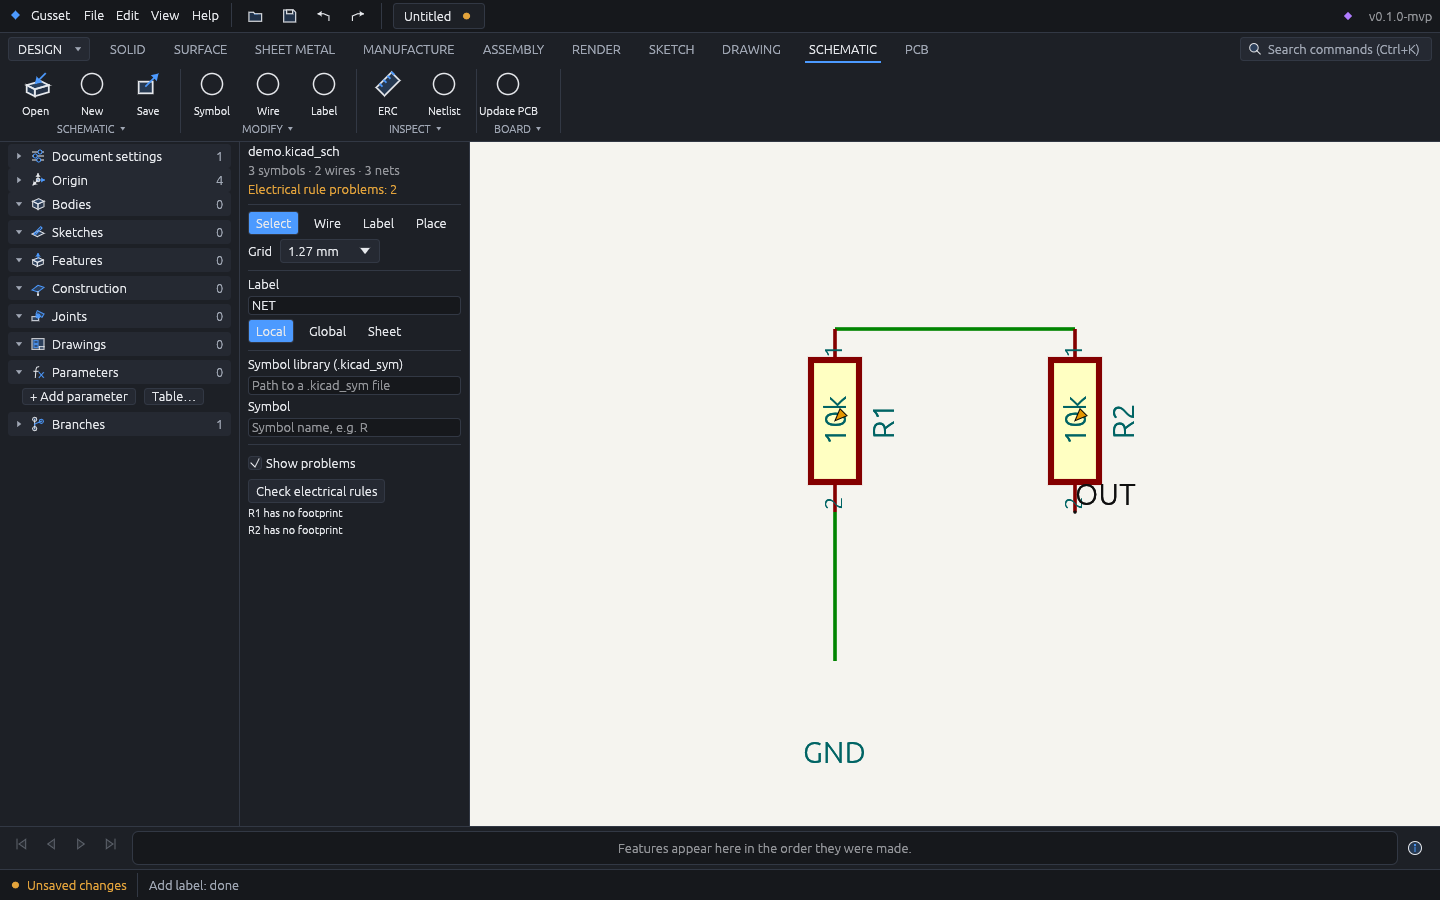
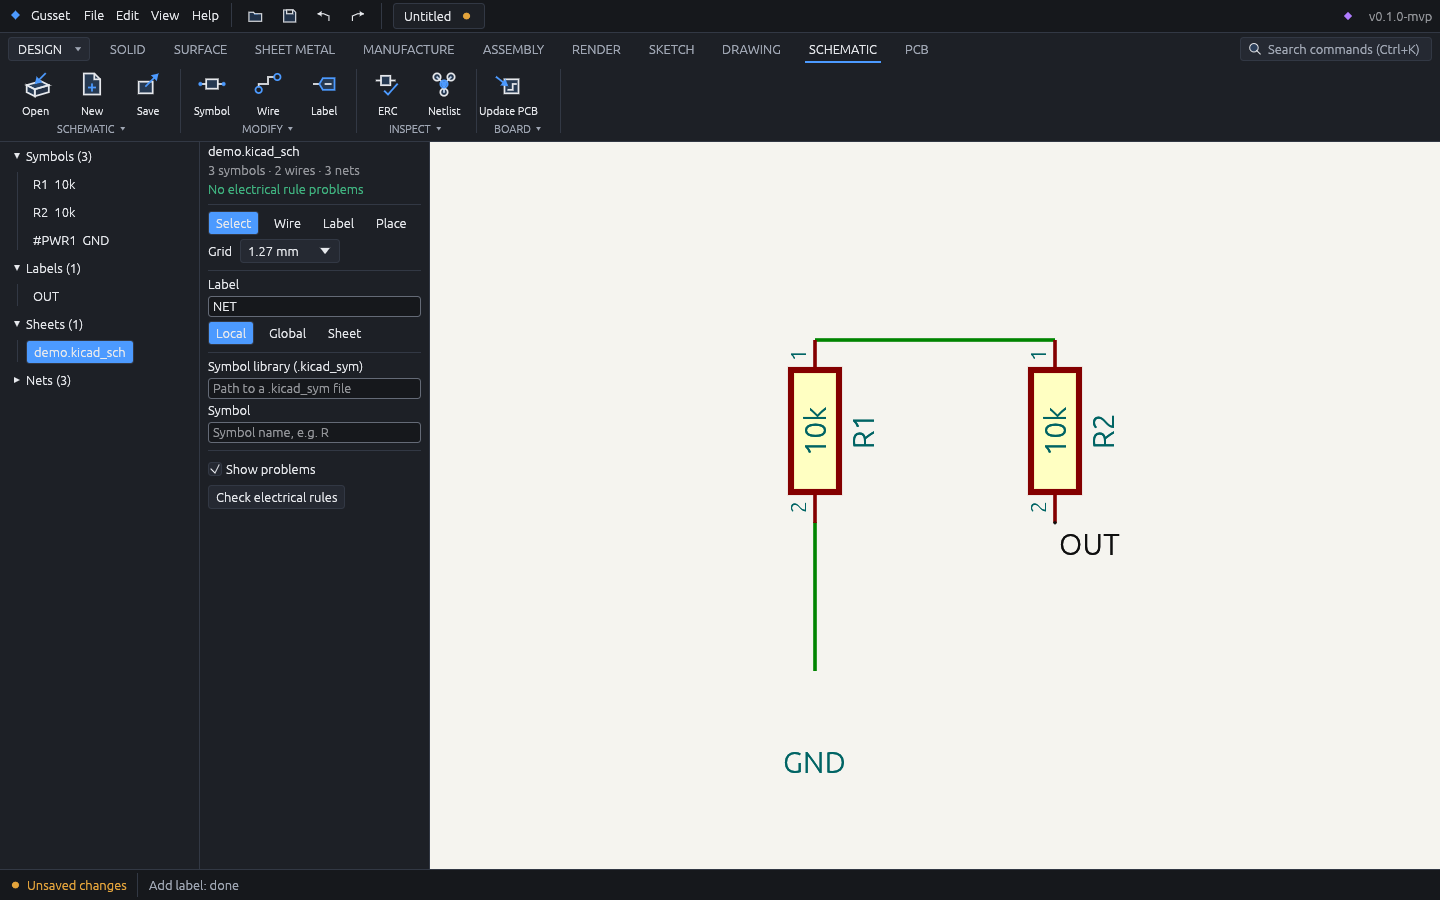
docs(app): finished PCB and Schematic gallery demo
The demo schematic's resistors get footprints (no ERC warning) and the demo
board's track is laid with pcb.route in 45-degree legs from pad to pad.
Screens 24-27 regenerated.

Claude-Session: https://claude.ai/code/session_01DSjXuzSVUbVM2N9dfBB73Z

diff --git a/crates/gusset-app/src/screenshots.rs b/crates/gusset-app/src/screenshots.rs
@@ -333,8 +333,12 @@ fn generate_gallery_pcb_sch() {
         for at in [[12, 10], [28, 20]] {
             a.run("pcb.add_footprint", json!({"library": "fp", "footprint": "Pads:R_0603", "at": at})).ok();
         }
-        a.run("pcb.add_track", json!({"start": [12.8, 10], "end": [27.2, 20], "width": 0.25})).ok();
-        a.run("pcb.add_via", json!({"at": [20, 15]})).ok();
+        // The route command in 45-degree legs from pad to pad (the router's own search treats
+        // these net-less demo pads as obstacles, so the corner is given, not searched).
+        let pts = json!([[12.8, 10], [22.8, 20], [27.2, 20]]);
+        let r = a.run("pcb.route", json!({"points": pts, "width": 0.25, "around": false}));
+        assert!(r.is_ok(), "{r:?}");
+        a.run("pcb.add_via", json!({"at": [17.8, 15]})).ok();
         a.wait_idle();
         a.ribbon_action(crate::ribbon::Action::PcbTab);
         shoot(&dir, &format!("24-pcb-{t}"), a, |h| h.run_steps(4));
@@ -343,6 +347,10 @@ fn generate_gallery_pcb_sch() {
         a.run("sch.new", json!({"name": "demo"})).ok();
         for (sym, at) in [("R", [100, 50]), ("R", [110, 50]), ("GND", [100, 60])] {
             a.run("sch.add_symbol", json!({"library": "demo.kicad_sym", "symbol": sym, "at": at})).ok();
+        }
+        // Footprints assigned, so the ERC has nothing to say about them.
+        for r in ["R1", "R2"] {
+            a.run("sch.set_field", json!({"symbol": r, "field": "Footprint", "value": "Pads:R_0603"})).ok();
         }
         a.run("sch.add_wire", json!({"points": [[100, 46.19], [110, 46.19]]})).ok();
         a.run("sch.add_wire", json!({"points": [[100, 53.81], [100, 60]]})).ok();
